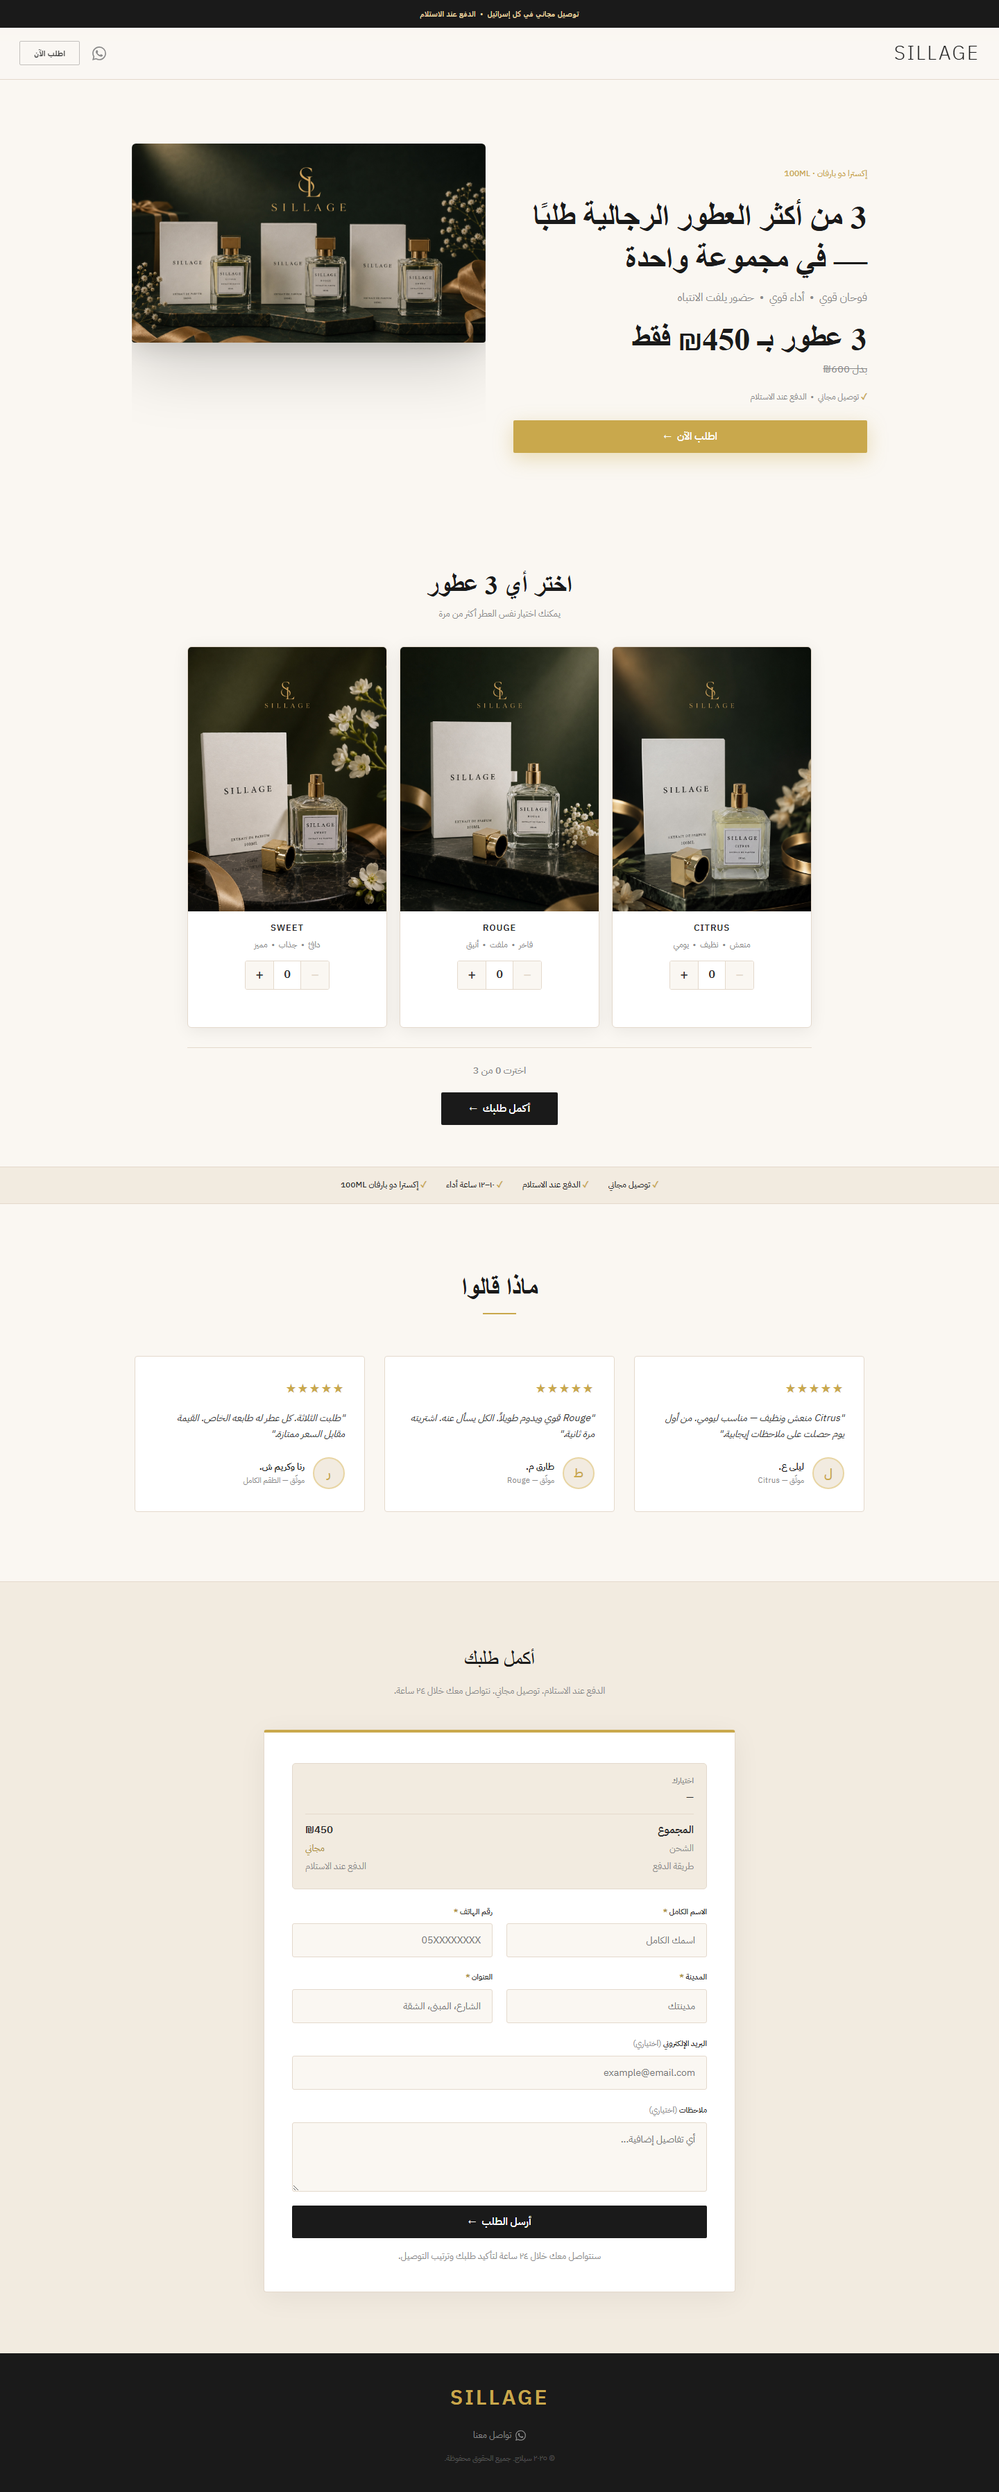
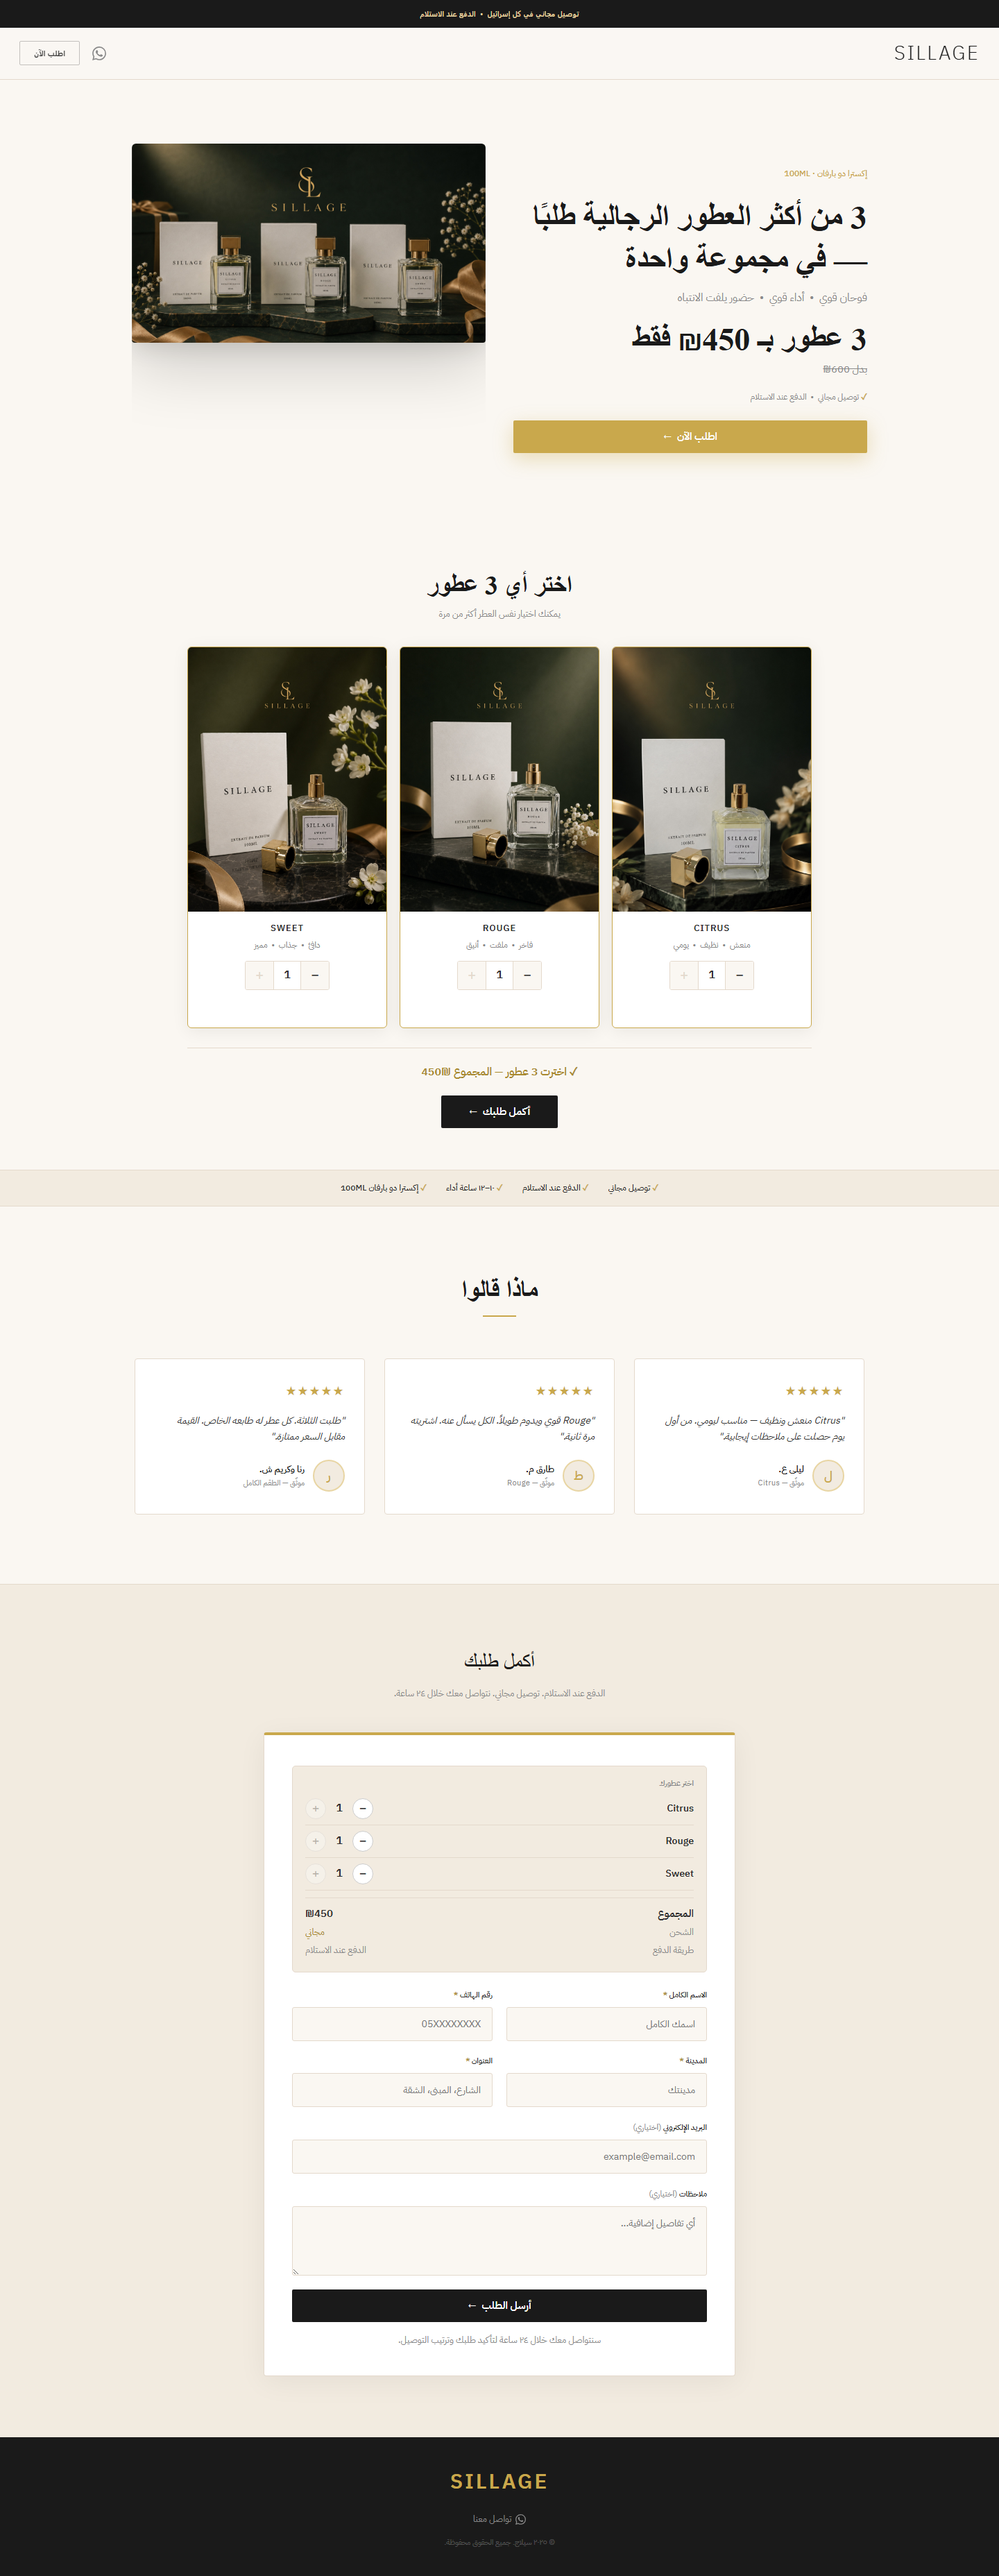
Improve checkout flow and default trio selection

diff --git a/ar/index.html b/ar/index.html
@@ -264,6 +264,60 @@
     .receipt-row.total { font-size: 15px; font-weight: 700; color: var(--charcoal); margin-bottom: 0; margin-top: 2px; }
     .receipt-free { color: var(--gold-dark); }
 
+    /* ── Form-level quantity steppers ── */
+    .receipt-product-row {
+      display: flex;
+      align-items: center;
+      justify-content: space-between;
+      padding: 8px 0;
+      border-bottom: 1px solid var(--beige);
+    }
+    .receipt-product-row:last-of-type { border-bottom: none; }
+    .receipt-product-name {
+      font-size: 14px;
+      font-weight: 600;
+      color: var(--charcoal);
+      font-family: 'IBM Plex Sans Arabic', sans-serif;
+    }
+    .receipt-qty {
+      display: flex;
+      align-items: center;
+      gap: 10px;
+    }
+    .rqty-btn {
+      width: 30px;
+      height: 30px;
+      border: 1px solid #ccc;
+      border-radius: 50%;
+      background: #fff;
+      font-size: 18px;
+      line-height: 1;
+      cursor: pointer;
+      display: flex;
+      align-items: center;
+      justify-content: center;
+      color: var(--charcoal);
+      transition: border-color 0.15s, opacity 0.15s;
+      font-family: Arial, sans-serif;
+    }
+    .rqty-btn:hover:not(:disabled) { border-color: var(--charcoal); }
+    .rqty-btn:disabled { opacity: 0.3; cursor: default; }
+    .rqty-count {
+      font-size: 16px;
+      font-weight: 700;
+      color: var(--charcoal);
+      min-width: 18px;
+      text-align: center;
+      font-family: 'IBM Plex Sans Arabic', sans-serif;
+    }
+    .receipt-qty-note {
+      font-size: 12px;
+      color: #b07a30;
+      text-align: center;
+      margin: 8px 0 2px;
+      font-family: 'IBM Plex Sans Arabic', sans-serif;
+    }
+
     /* ── Footer ── */
     .footer-logo { font-family: 'IBM Plex Sans Arabic', sans-serif; font-weight: 700; letter-spacing: 0.1em; }
     .footer-copy { font-family: 'IBM Plex Sans Arabic', sans-serif; }
@@ -482,14 +536,43 @@
 
       <form class="order-form" id="order-form-el" onsubmit="handleOrderSubmit(event)" novalidate>
 
-        <!-- Static receipt -->
+        <!-- Dynamic receipt with inline quantity controls -->
         <div class="form-receipt">
-          <p class="receipt-lbl">اختيارك</p>
-          <p class="receipt-sel" id="receipt-sel">—</p>
+          <p class="receipt-lbl">اختر عطورك</p>
+
+          <div class="receipt-product-row">
+            <span class="receipt-product-name">Citrus</span>
+            <div class="receipt-qty">
+              <button type="button" class="rqty-btn" id="form-dec-citrus" onclick="decrement('citrus')">−</button>
+              <span class="rqty-count" id="form-count-citrus">1</span>
+              <button type="button" class="rqty-btn" id="form-inc-citrus" onclick="increment('citrus')">+</button>
+            </div>
+          </div>
+
+          <div class="receipt-product-row">
+            <span class="receipt-product-name">Rouge</span>
+            <div class="receipt-qty">
+              <button type="button" class="rqty-btn" id="form-dec-rouge" onclick="decrement('rouge')">−</button>
+              <span class="rqty-count" id="form-count-rouge">1</span>
+              <button type="button" class="rqty-btn" id="form-inc-rouge" onclick="increment('rouge')">+</button>
+            </div>
+          </div>
+
+          <div class="receipt-product-row">
+            <span class="receipt-product-name">Sweet</span>
+            <div class="receipt-qty">
+              <button type="button" class="rqty-btn" id="form-dec-sweet" onclick="decrement('sweet')">−</button>
+              <span class="rqty-count" id="form-count-sweet">1</span>
+              <button type="button" class="rqty-btn" id="form-inc-sweet" onclick="increment('sweet')">+</button>
+            </div>
+          </div>
+
+          <p class="receipt-qty-note" id="receipt-qty-note" style="display:none;"></p>
+
           <hr class="receipt-hr" />
           <div class="receipt-row total">
             <span>المجموع</span>
-            <span>₪450</span>
+            <span id="receipt-total-display">₪450</span>
           </div>
           <div class="receipt-row" style="margin-top:5px;">
             <span>الشحن</span>
@@ -570,8 +653,8 @@
        SCRIPT
   ══════════════════════════════════ -->
   <script>
-    /* ── State ── */
-    var sel   = { citrus: 0, rouge: 0, sweet: 0 };
+    /* ── State — default: the trio ── */
+    var sel   = { citrus: 1, rouge: 1, sweet: 1 };
     var avail = { citrus: true, rouge: true, sweet: true };
     var SKU_LABELS = { citrus: 'Citrus', rouge: 'Rouge', sweet: 'Sweet' };
     var SKUS = ['citrus', 'rouge', 'sweet'];
@@ -594,17 +677,26 @@
     function updateUI() {
       var t = total();
       SKUS.forEach(function(p) {
+        // Product showcase card steppers
         var cEl  = document.getElementById('count-' + p);
         var incB = document.getElementById('inc-' + p);
         var decB = document.getElementById('dec-' + p);
         var card = document.getElementById('card-' + p);
-        if (cEl)  cEl.textContent   = sel[p];
-        if (incB) incB.disabled     = (t >= 3 || !avail[p]);
-        if (decB) decB.disabled     = (sel[p] <= 0);
+        if (cEl)  cEl.textContent = sel[p];
+        if (incB) incB.disabled   = (t >= 3 || !avail[p]);
+        if (decB) decB.disabled   = (sel[p] <= 0);
         if (card) card.classList.toggle('has-qty', sel[p] > 0);
+
+        // Form receipt steppers
+        var fcEl  = document.getElementById('form-count-' + p);
+        var fincB = document.getElementById('form-inc-' + p);
+        var fdecB = document.getElementById('form-dec-' + p);
+        if (fcEl)  fcEl.textContent = sel[p];
+        if (fincB) fincB.disabled   = (t >= 3 || !avail[p]);
+        if (fdecB) fdecB.disabled   = (sel[p] <= 0);
       });
 
-      // Counter text
+      // Counter in product showcase section
       var ctr = document.getElementById('sel-counter');
       if (ctr) {
         if (t === 3) {
@@ -616,20 +708,27 @@
         }
       }
 
-      // Receipt selection line
-      var recEl = document.getElementById('receipt-sel');
-      if (recEl) {
-        var parts = [];
-        SKUS.forEach(function(p) { if (sel[p] > 0) parts.push(SKU_LABELS[p] + ' × ' + sel[p]); });
-        recEl.textContent = parts.length ? parts.join('،  ') : '—';
+      // Form receipt: total display + guidance note
+      var totalDisp = document.getElementById('receipt-total-display');
+      var qtyNote   = document.getElementById('receipt-qty-note');
+      if (totalDisp) {
+        totalDisp.textContent = t === 3 ? '₪450' : '—';
+        totalDisp.style.color = t === 3 ? '' : 'var(--muted)';
+      }
+      if (qtyNote) {
+        if (t === 3) {
+          qtyNote.style.display = 'none';
+        } else {
+          var rem = 3 - t;
+          qtyNote.textContent   = 'أضف ' + rem + (rem === 1 ? ' عطرًا آخر للمتابعة' : ' عطور أخرى للمتابعة');
+          qtyNote.style.display = 'block';
+        }
       }
     }
 
-    /* ── Smart CTA ── */
+    /* ── CTA — always goes to order form ── */
     function handleCTA() {
-      var target = total() === 3 ? 'order-form' : 'selection';
-      var el = document.getElementById(target);
-      if (el) el.scrollIntoView({ behavior: 'smooth' });
+      document.getElementById('order-form').scrollIntoView({ behavior: 'smooth' });
     }
 
     /* ── Inventory ── */
@@ -659,10 +758,9 @@
       errorEl.style.display = 'none';
 
       var t = total();
-      if (t < 3) {
-        errorEl.textContent   = 'يرجى اختيار 3 عطور أولاً.';
+      if (t !== 3) {
+        errorEl.textContent   = 'يجب أن يكون مجموع العطور 3 بالضبط.';
         errorEl.style.display = 'block';
-        document.getElementById('selection').scrollIntoView({ behavior: 'smooth' });
         return;
       }
 
